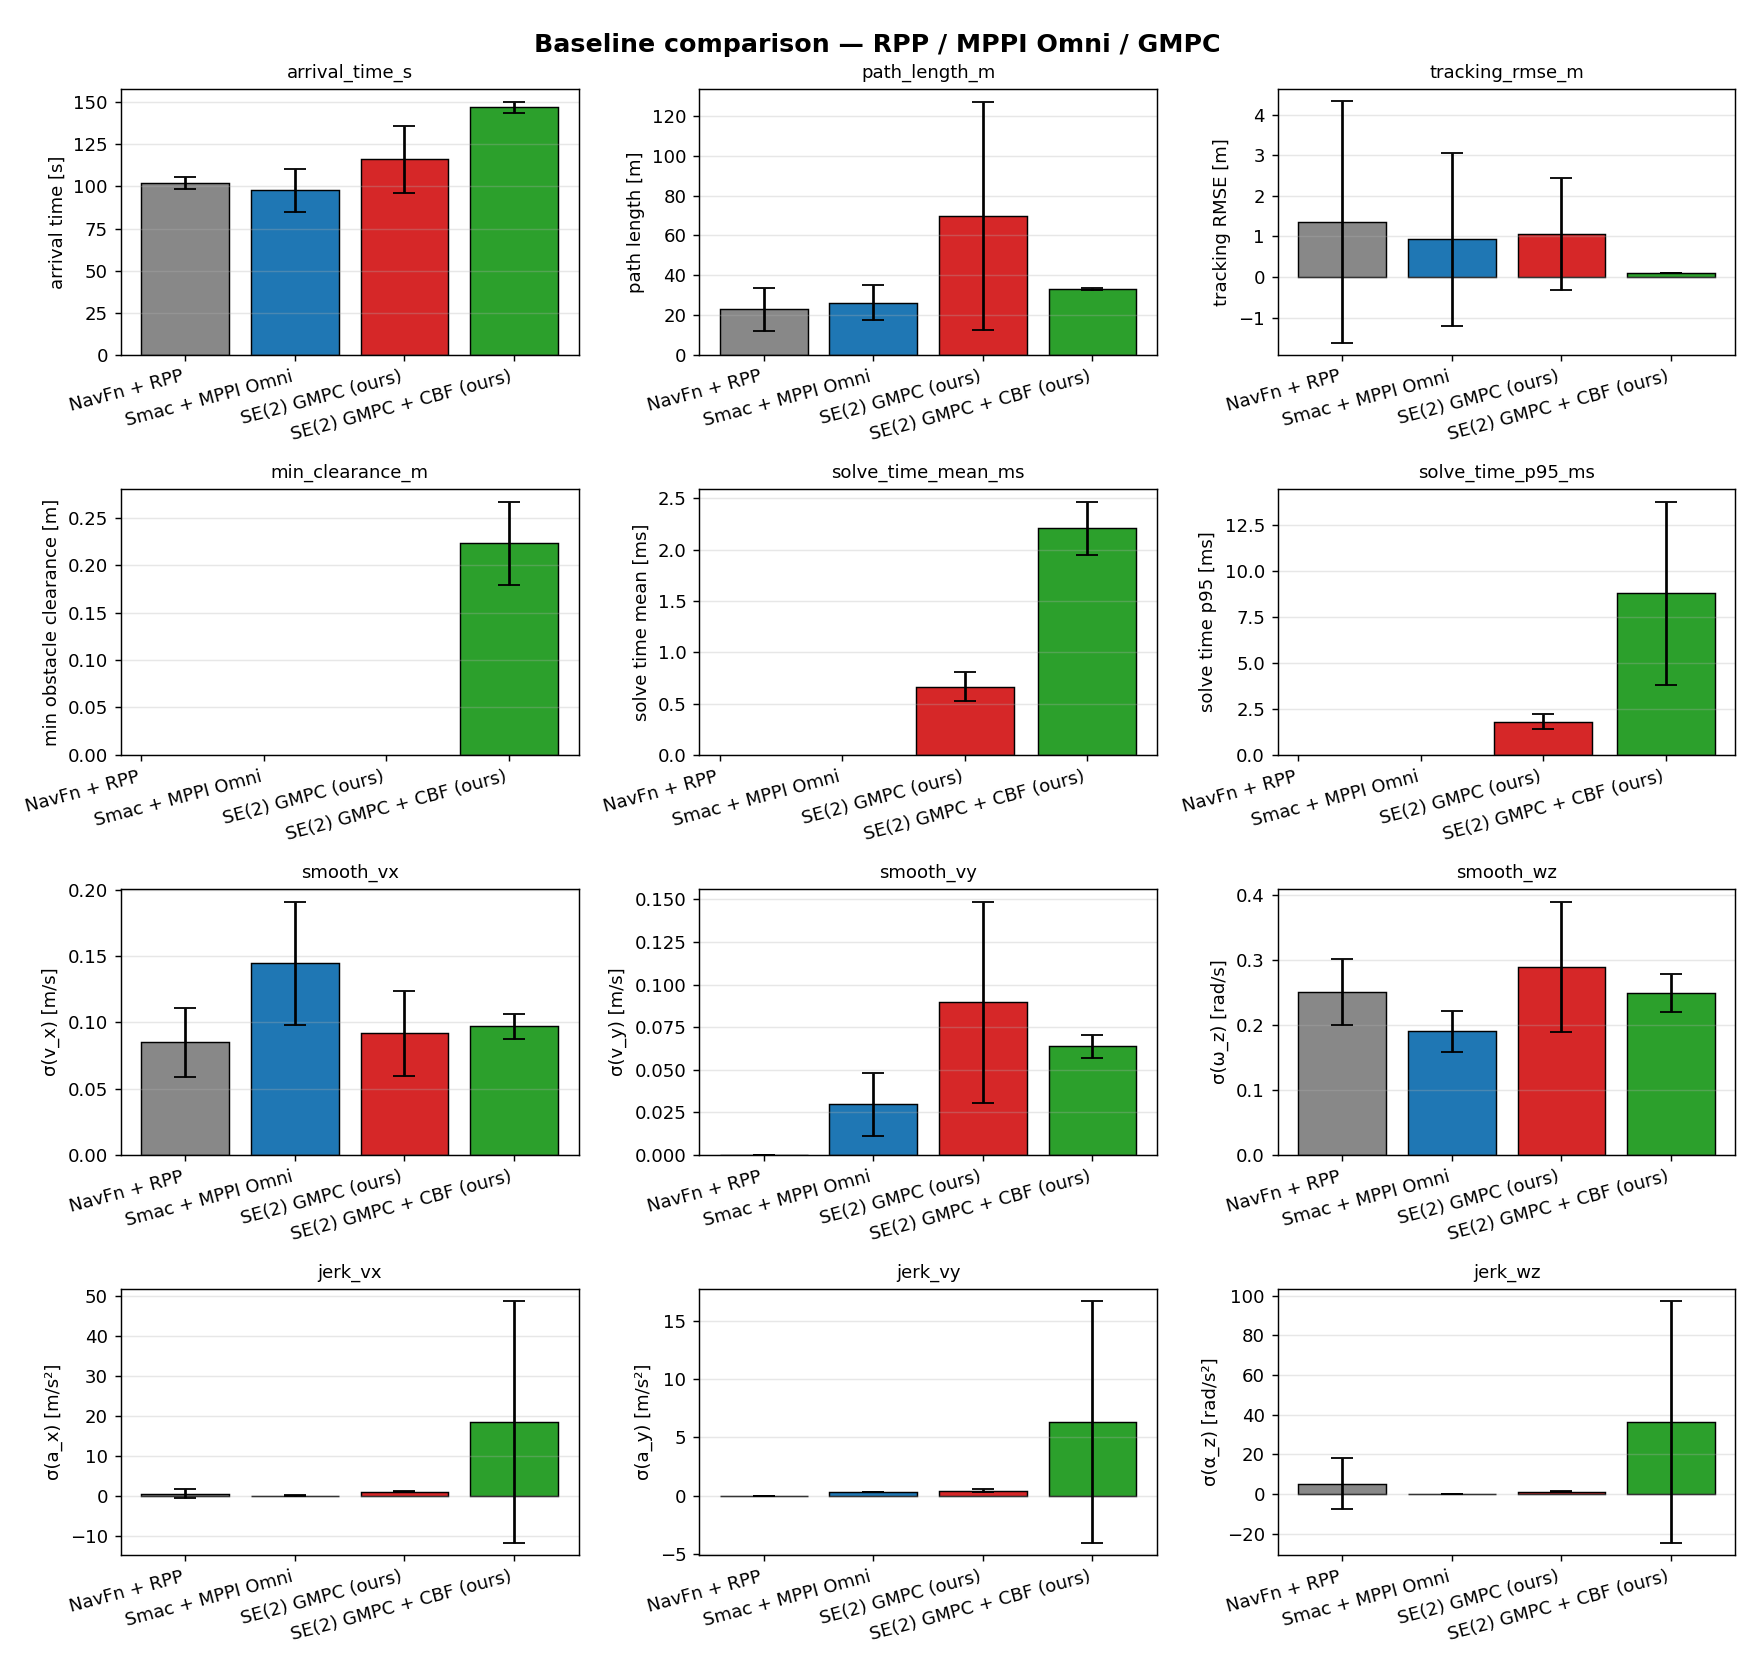
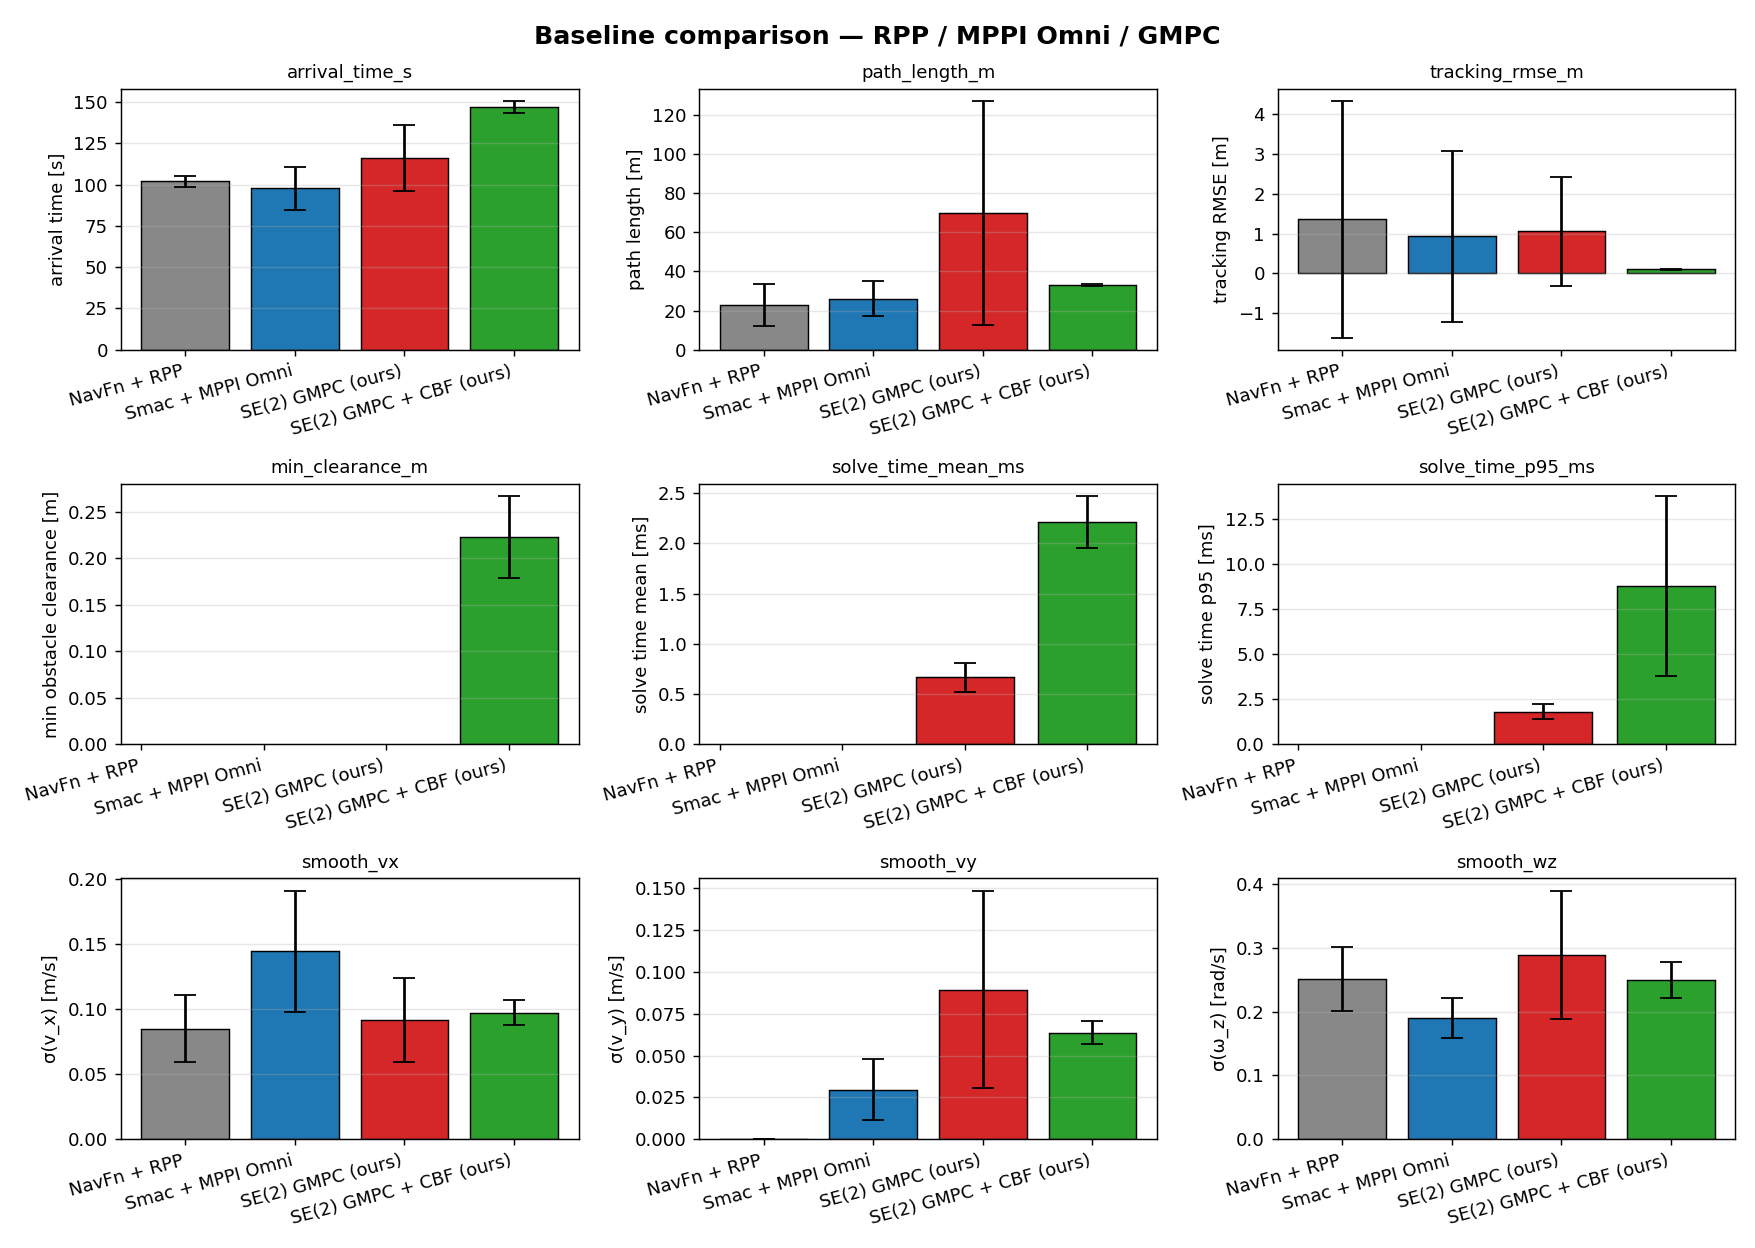
Auto-update: 2026-06-03 23:25

diff --git a/evaluation/plot.py b/evaluation/plot.py
@@ -70,6 +70,13 @@ METHOD_COLOR  = {'rpp': '#888888',
 # and analyze.py defaults collision_count to 0 for them. A side-by-side bar
 # would falsely imply 'all methods have 0 collisions'. Add it back only after
 # instrumenting baselines with the same obstacle ground-truth channel.
+#
+# NOTE: jerk_{vx,vy,wz} also excluded — these are σ(Δu)/Δt computed from
+# /cmd_vel, but the AMCL pose jumps observed during the smoke test inflate
+# the underlying velocity differences (the controller's emergency-brake on
+# infeasible QP also produces spike Δu's that are not 'real' jerk). To be
+# revisited once we either filter AMCL jumps or compute jerk from /odom
+# command stream with a low-pass first.
 METRICS = [
     ('arrival_time_s',     'arrival time [s]',           True),
     ('path_length_m',      'path length [m]',            True),
@@ -80,9 +87,6 @@ METRICS = [
     ('smooth_vx',          'σ(v_x) [m/s]',               True),
     ('smooth_vy',          'σ(v_y) [m/s]',               True),
     ('smooth_wz',          'σ(ω_z) [rad/s]',             True),
-    ('jerk_vx',            'σ(a_x) [m/s²]',              True),
-    ('jerk_vy',            'σ(a_y) [m/s²]',              True),
-    ('jerk_wz',            'σ(α_z) [rad/s²]',            True),
 ]
 
 
